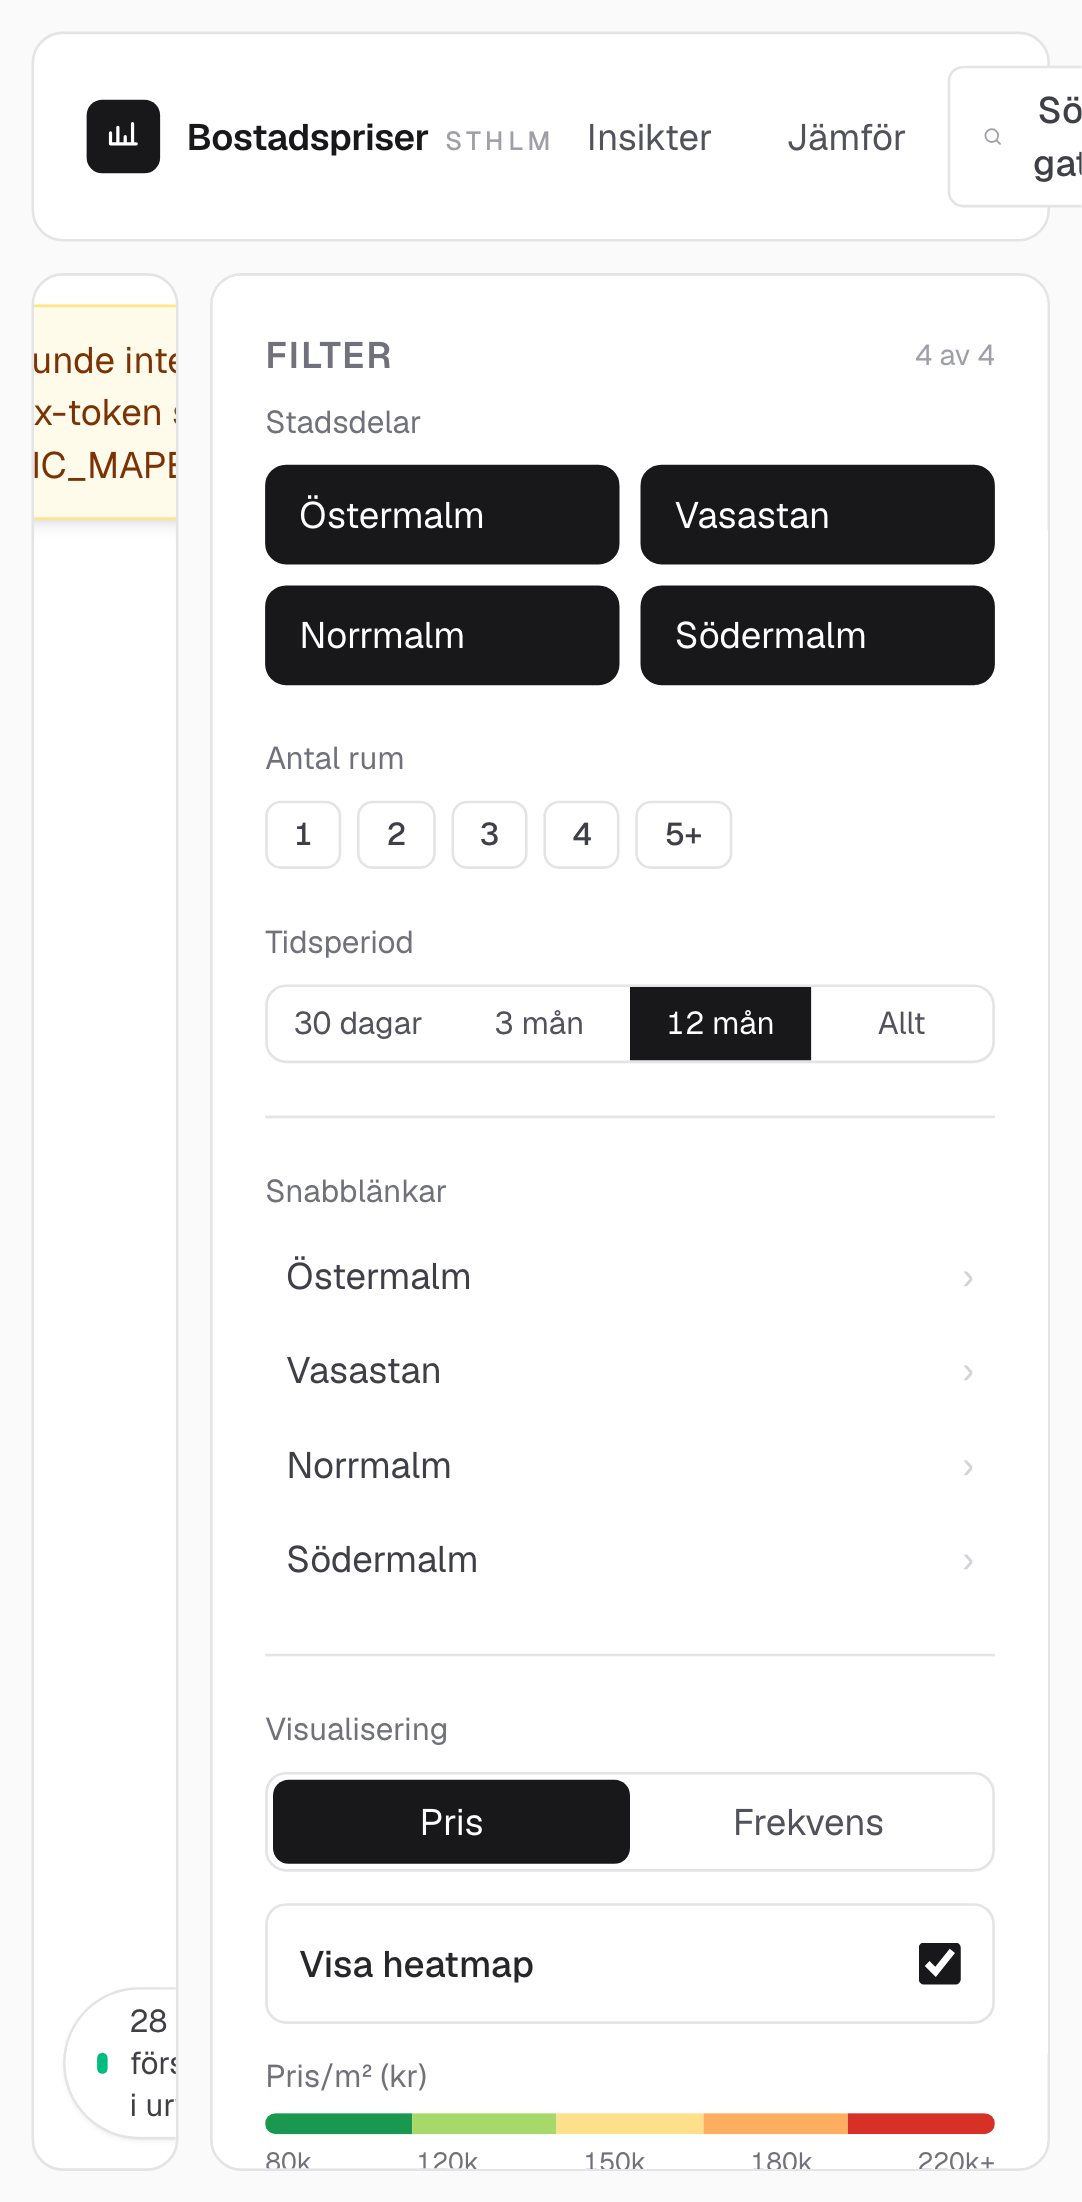
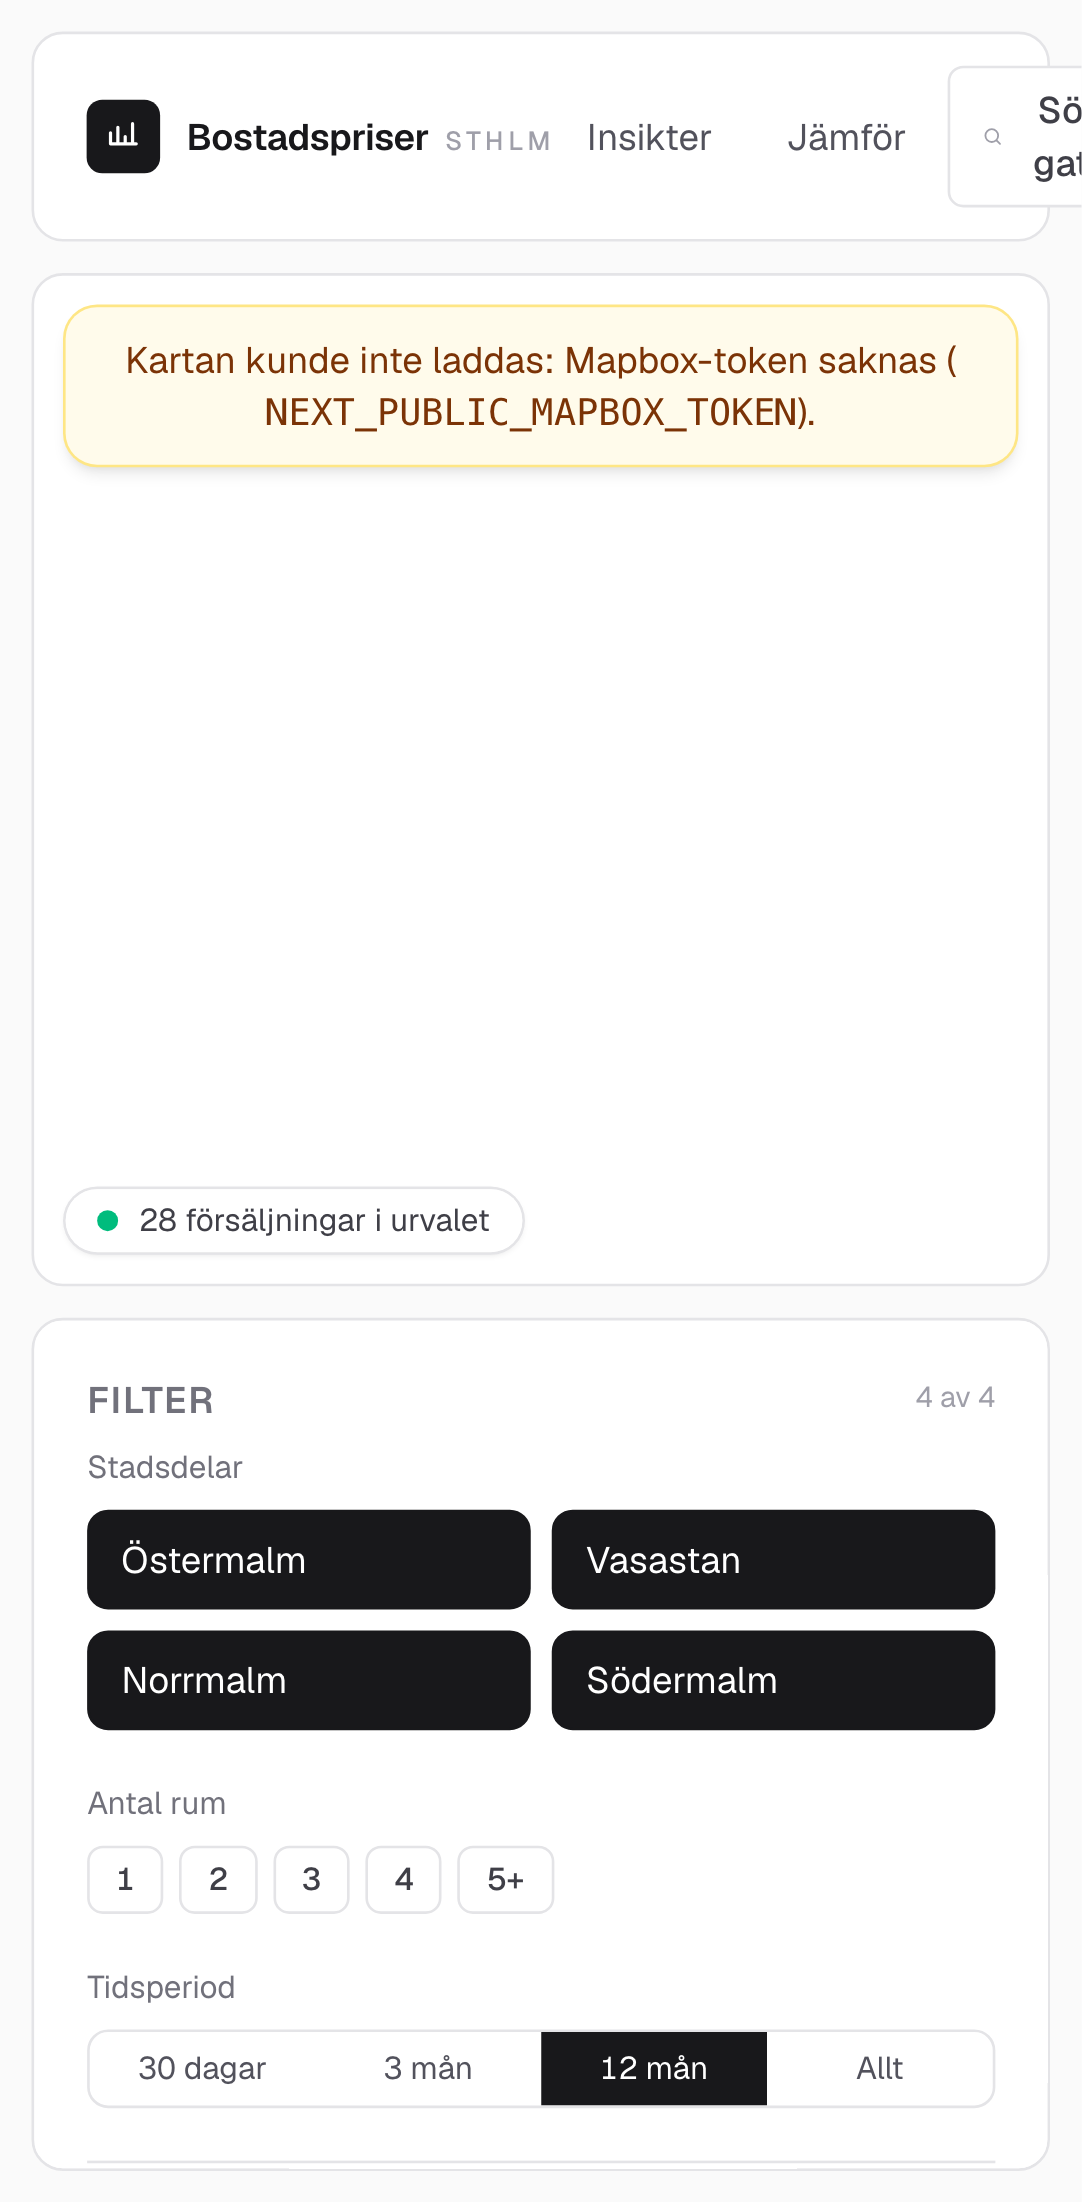
fix(web): wrap the missing-token notice and stack the map above the sidebar on phones (F6 review)
(cherry picked from commit d94f730423766ca1d52edfbfd8f234afaa6c81af)

diff --git a/web/e2e/map.spec.ts b/web/e2e/map.spec.ts
@@ -95,11 +95,30 @@ test("a missing Mapbox token shows a clear message and keeps the sidebar working
   consoleErrors,
 }) => {
   await page.goto("/");
-  await expect(page.getByRole("alert").filter({ hasText: "NEXT_PUBLIC_MAPBOX_TOKEN" })).toHaveText(
+  await expect(page.getByRole("status").filter({ hasText: "NEXT_PUBLIC_MAPBOX_TOKEN" })).toHaveText(
     "Kartan kunde inte laddas: Mapbox-token saknas (NEXT_PUBLIC_MAPBOX_TOKEN)."
   );
   // The sidebar is unaffected.
   await page.getByRole("button", { name: "Vasastan", exact: true }).click();
   await expect(page.getByText("3 av 4")).toBeVisible();
   expect(consoleErrors).toEqual([]);
+});
+
+// The long variable name is one unbreakable word; at Pixel 7 width the notice
+// used to overflow its container and clip on both sides.
+test("the missing-token notice stays inside the map area", async ({ page }) => {
+  await page.goto("/");
+  // The map must keep a usable width next to the sidebar (it stacks on phones).
+  const mapBox = await page.getByTestId("map-container").boundingBox();
+  expect(mapBox!.width).toBeGreaterThanOrEqual(300);
+  const notice = page.getByText("Kartan kunde inte laddas");
+  await expect(notice).toBeVisible();
+  const [box, container] = await Promise.all([
+    notice.boundingBox(),
+    page.getByTestId("map-container").boundingBox(),
+  ]);
+  expect(box!.x).toBeGreaterThanOrEqual(container!.x);
+  expect(box!.x + box!.width).toBeLessThanOrEqual(container!.x + container!.width + 0.5);
+  // No horizontal overflow inside the notice itself.
+  expect(await notice.evaluate((el) => el.scrollWidth <= el.clientWidth)).toBe(true);
 });

diff --git a/web/src/components/HeatmapMap.tsx b/web/src/components/HeatmapMap.tsx
@@ -120,7 +120,7 @@ export function HeatmapMap({ districts, showHeatmap, mode, filters }: Props) {
   useEffect(() => {
     if (!containerRef.current || mapRef.current) return;
     // A missing token is a configuration state, not a bug: the page shows an
-    // in-app message (see `missingToken`) rather than a console error.
+    // in-app message (see the `!MAPBOX_TOKEN` banner below) rather than a console error.
     if (!MAPBOX_TOKEN) {
       console.warn("NEXT_PUBLIC_MAPBOX_TOKEN is not set; the map is disabled");
       return;
@@ -410,9 +410,10 @@ export function HeatmapMap({ districts, showHeatmap, mode, filters }: Props) {
       <div ref={containerRef} data-testid="map-container" className="h-full w-full" />
 
       {!MAPBOX_TOKEN && (
-        <div role="alert" className="absolute inset-x-3 top-3 z-20 flex justify-center">
-          <p className="rounded-xl bg-amber-50 px-4 py-2.5 text-center text-sm text-amber-900 shadow-md ring-1 ring-amber-200">
-            Kartan kunde inte laddas: Mapbox-token saknas (NEXT_PUBLIC_MAPBOX_TOKEN).
+        <div role="status" className="absolute inset-x-3 top-3 z-20 flex justify-center">
+          <p className="max-w-full break-words rounded-xl bg-amber-50 px-4 py-2.5 text-center text-sm text-amber-900 shadow-md ring-1 ring-amber-200">
+            Kartan kunde inte laddas: Mapbox-token saknas (
+            <code className="inline-block break-all">NEXT_PUBLIC_MAPBOX_TOKEN</code>).
           </p>
         </div>
       )}

diff --git a/web/src/app/page.tsx b/web/src/app/page.tsx
@@ -51,8 +51,9 @@ export default function HomePage() {
     // and would push the map's bottom edge below the fold.
     <div className="flex h-dvh flex-col overflow-hidden bg-zinc-50">
       <TopNav />
-      <div className="flex flex-1 gap-3 overflow-hidden p-3">
-        <main className="relative flex-1 overflow-hidden rounded-xl border border-zinc-200 bg-white">
+      {/* Phones: map on top, sidebar scrolling below it. md+: side by side. */}
+      <div className="flex min-h-0 flex-1 flex-col gap-3 overflow-hidden p-3 md:flex-row">
+        <main className="relative min-h-0 flex-1 overflow-hidden rounded-xl border border-zinc-200 bg-white">
           <HeatmapMap
             districts={selected}
             showHeatmap={showHeatmap}
@@ -128,7 +129,7 @@ function Sidebar({
   onSetSinceDays,
 }: SidebarProps) {
   return (
-    <aside className="flex w-80 shrink-0 flex-col gap-5 overflow-y-auto rounded-xl border border-zinc-200 bg-white p-5">
+    <aside className="flex max-h-[45%] w-full shrink-0 flex-col gap-5 overflow-y-auto md:max-h-none md:w-80 rounded-xl border border-zinc-200 bg-white p-5">
       <section>
         <div className="flex items-center justify-between">
           <h2 className="text-sm font-semibold uppercase tracking-wider text-zinc-500">
